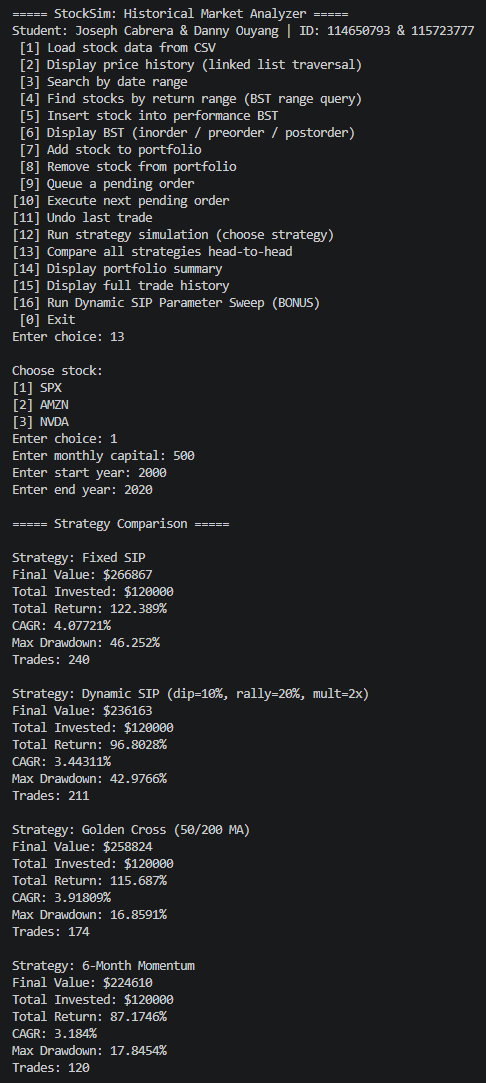
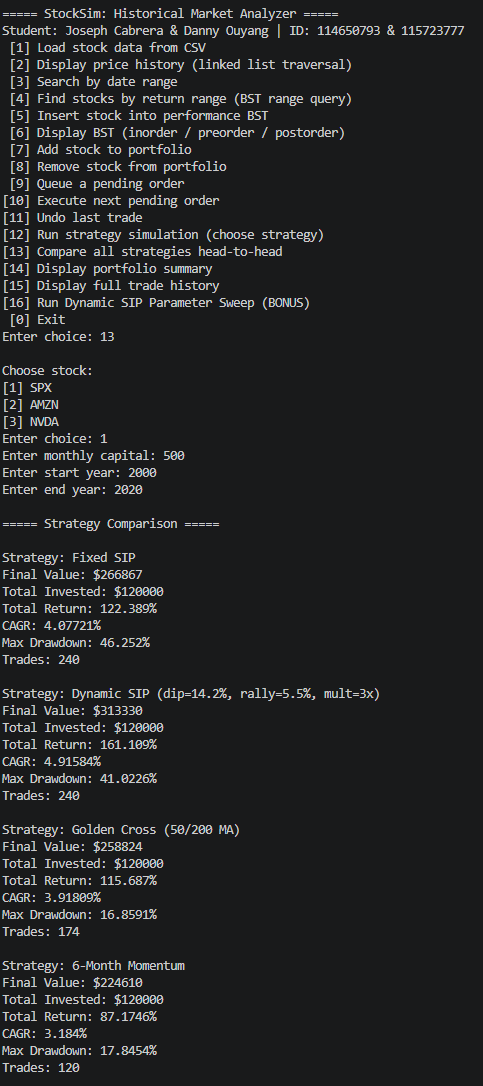
Final Images + Bonus + Cosmetic changes

Changed region(s): [[0.0, 0.0, 0.9317, 1.0], [0.4969, 0.6094, 0.6832, 0.6704], [0.7143, 0.6399, 0.7453, 0.6704]]

diff --git a/main.cpp b/main.cpp
@@ -3,7 +3,7 @@
  * Historical Market Analyzer & Trading Strategy Simulator
  *
  * Student Names : Joseph Cabrera & Danny Ouyang
- * Student IDs   : 114650793 & 
+ * Student IDs   : 114650793 & 115723777
  *
  * Compile with C++11 or later:
  *   g++ -std=c++11 -Iinclude src/*.cpp main.cpp -o stocksim
@@ -11,6 +11,7 @@
 
 #include <iostream>
 #include <limits>
+#include <sstream>
 #include <string>
 #include <vector>
 
@@ -132,61 +133,86 @@ void printStrategyComparison(const SimResult& r1,
     void parameterSweep(ETF* spy,
         double monthlyCapital,
         int startYear,
-        int endYear,
-        StockBST& bst) {
+        int endYear) {
 
     cout << "\n===== Dynamic SIP Parameter Sweep =====" << endl;
 
-    for (double dipThreshold = 3.0;
-         dipThreshold <= 20.0;
-         dipThreshold += 1.0) {
+    StockBST sweepBST;
 
-        DynamicSIPStrategy strategy(
-            dipThreshold,
-            10.0,
-            2.0
-        );
+    const int DIP_COUNT = 5;
+    const int RALLY_COUNT = 2;
+    const int MULTIPLIER_COUNT = 2;
 
-        SimResult result =
-            strategy.backtest(
-                spy->getHistory(),
-                monthlyCapital,
-                startYear,
-                endYear
-            );
+    double dipOptions[DIP_COUNT] = {8.0, 12.0, 14.0, 14.2, 15.0};
+    double rallyOptions[RALLY_COUNT] = {5.5, 10.0};
+    double multiplierOptions[MULTIPLIER_COUNT] = {2.0, 3.0};
+    string bestLabel = "";
+    double bestValue = 0.0;
+    bool hasBest = false;
 
-        string label =
-            "dip=" +
-            to_string((int)dipThreshold) +
-            "%";
+    for (int dipIndex = 0; dipIndex < DIP_COUNT; dipIndex++) {
+        for (int rallyIndex = 0; rallyIndex < RALLY_COUNT; rallyIndex++) {
+            for (int multiplierIndex = 0;
+                 multiplierIndex < MULTIPLIER_COUNT;
+                 multiplierIndex++) {
 
-        bst.insert(
-            label,
-            result.finalValue,
-            0
-        );
+                double dipThreshold = dipOptions[dipIndex];
+                double rallyThreshold = rallyOptions[rallyIndex];
+                double multiplier = multiplierOptions[multiplierIndex];
 
-        cout << label
-             << " -> Final Value: $"
-             << result.finalValue
-             << endl;
+                DynamicSIPStrategy strategy(
+                    dipThreshold,
+                    rallyThreshold,
+                    multiplier
+                );
+
+                SimResult result =
+                    strategy.backtest(
+                        spy->getHistory(),
+                        monthlyCapital,
+                        startYear,
+                        endYear
+                    );
+
+                ostringstream labelStream;
+                labelStream << "dip=" << dipThreshold
+                            << "%,rally=" << rallyThreshold
+                            << "%,mult=" << multiplier << "x";
+
+                string label = labelStream.str();
+
+                sweepBST.insert(
+                    label,
+                    result.finalValue,
+                    0
+                );
+
+                if (!hasBest || result.finalValue > bestValue) {
+                    bestLabel = label;
+                    bestValue = result.finalValue;
+                    hasBest = true;
+                }
+
+                cout << label
+                     << " -> Final Value: $"
+                     << result.finalValue
+                     << endl;
+            }
+        }
     }
-
     cout << "\n===== Ranked Results =====" << endl;
 
-    bst.inorder();
+    sweepBST.inorder();
 
-    StockBST::BSTNode* best = bst.findMax();
-
-    if (best != nullptr) {
+    if (hasBest) {
         cout << "\n===== BEST THRESHOLD =====" << endl;
 
         cout << "Strategy: "
-             << best->ticker
+             << bestLabel
              << endl;
 
         cout << "Final Value: $"
-             << best->key
+             << bestValue
              << endl;
     }
 }
@@ -711,7 +737,7 @@ int main() {
             }
 
             FixedSIPStrategy fixed;
-            DynamicSIPStrategy dynamic(10.0, 20.0, 2.0);
+            DynamicSIPStrategy dynamic(14.2, 5.5, 3.0);
             GoldenCrossStrategy golden(50, 200);
             MomentumStrategy momentum(5.0, 126);
 
@@ -789,14 +815,11 @@ int main() {
                 continue;
             }
 
-            StockBST sweepBST;
-
             parameterSweep(
                 spy,
                 monthlyCapital,
                 startYear,
-                endYear,
-                sweepBST
+                endYear
             );
         }
 

diff --git a/PROMPTS.md b/PROMPTS.md
@@ -143,6 +143,8 @@
 
 **Prompt:** We are having an issue with case 13 where our output shows a crazy high CAGR when we have a very high final portfolio value. Please help me identify the root cause and solution.
 
+**Prompt:** Please implement our bonus_strategy.txt in our main.cpp parameterSweep().
+
 ### Section: CSVParser.cpp
 
 **Prompt:** We accidentally used std vector here while not being allowed. How do we implement without std vector?
